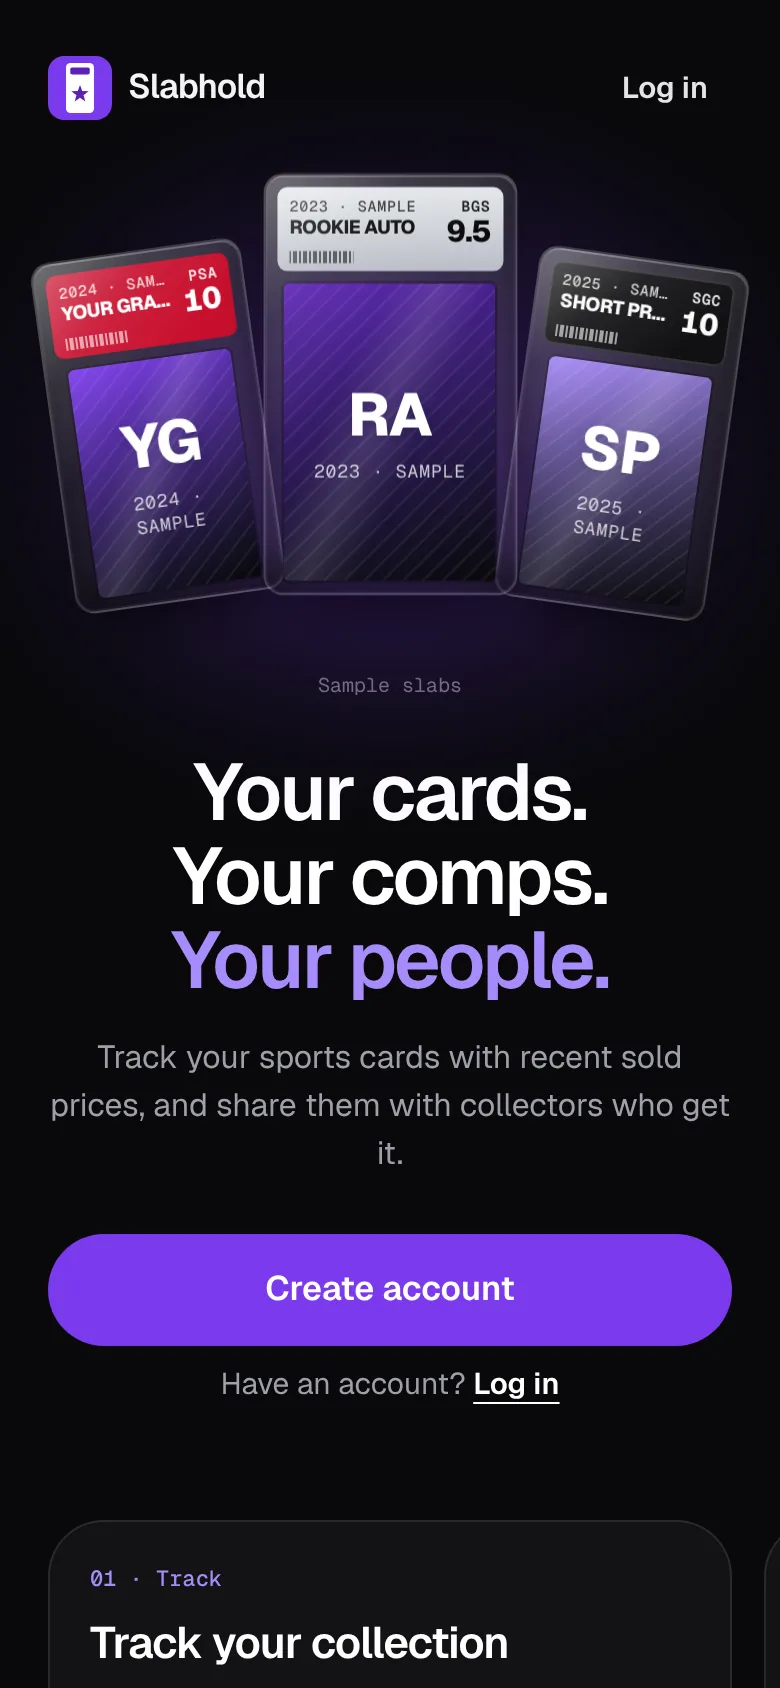
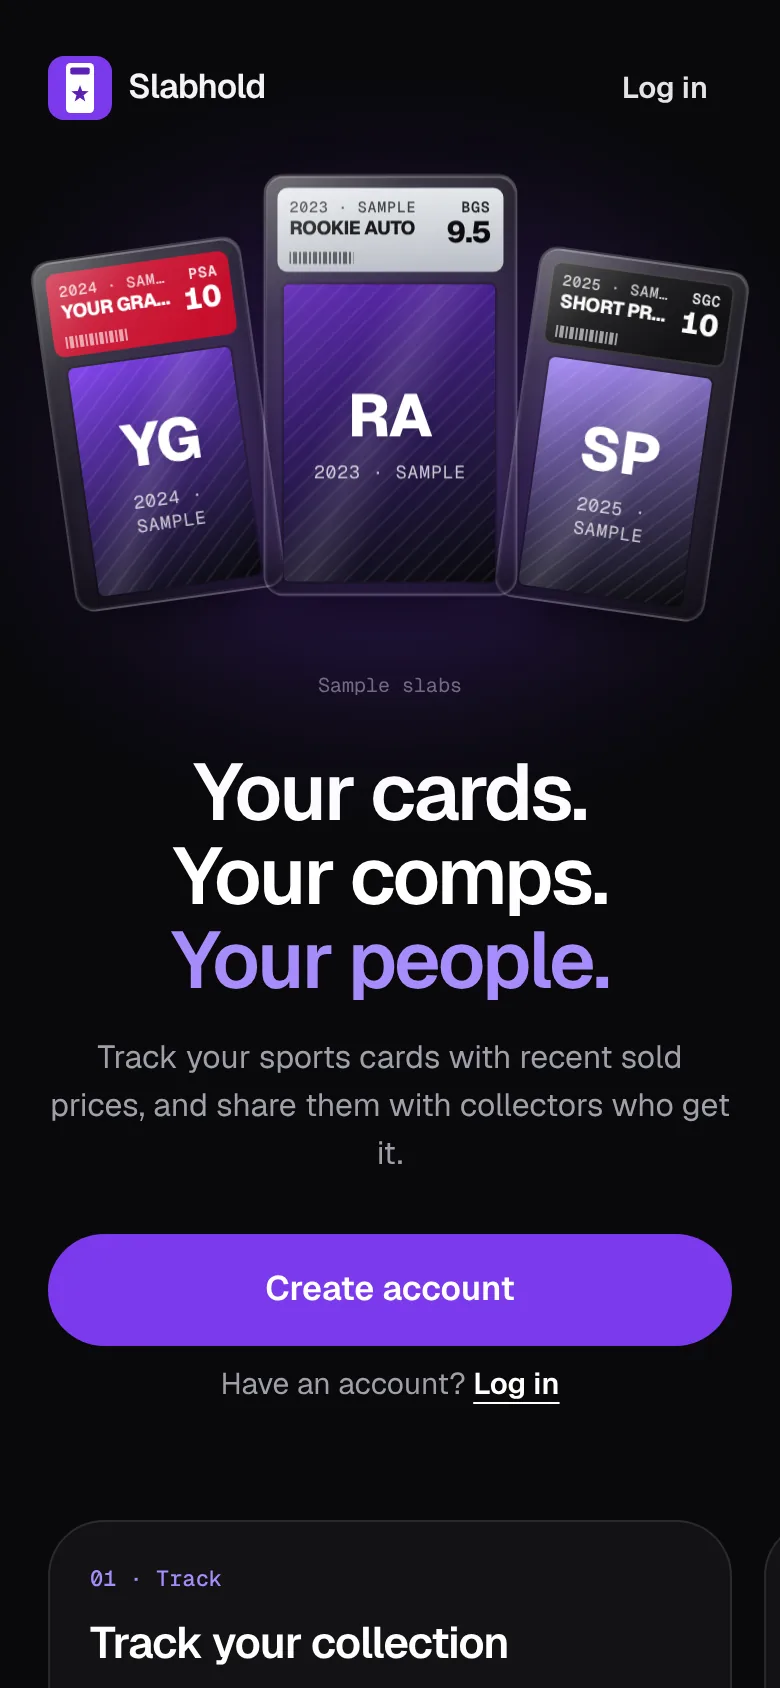
Solid DM bubble, solid tab indicator, static landing tilt
With Donnie's OK, three pins change: the sent DM bubble and its tail are
solid #7C3AED, the Home tab indicator is solid #7C3AED, and the landing
slabs keep their --tilt rotation without the infinite float loop.

Claude-Session: https://claude.ai/code/session_01EqJov4NkV3VZmzU9RYSXo1

diff --git a/components/message-thread.tsx b/components/message-thread.tsx
@@ -412,7 +412,7 @@ function MessageRow({
     ? `rounded-[20px] ${first ? "" : "rounded-tr-md"} ${last ? "rounded-br-[6px]" : "rounded-br-md"}`
     : `rounded-[20px] ${first ? "" : "rounded-tl-md"} ${last ? "rounded-bl-[6px]" : "rounded-bl-md"}`;
   const tone = mine
-    ? "bg-gradient-to-br from-[#7C3AED] to-[#5B21B6] text-white"
+    ? "bg-[#7C3AED] text-white"
     : "bg-zinc-200 text-zinc-900 dark:bg-zinc-800 dark:text-zinc-100";
   return (
     <div
@@ -487,7 +487,7 @@ function BubbleTail({ mine }: { mine: boolean }) {
       aria-hidden="true"
       viewBox="0 0 10 14"
       className={`absolute bottom-0 h-3.5 w-2.5 ${
-        mine ? "-right-[5px] text-[#5B21B6]" : "-left-[5px] -scale-x-100 text-zinc-200 dark:text-zinc-800"
+        mine ? "-right-[5px] text-[#7C3AED]" : "-left-[5px] -scale-x-100 text-zinc-200 dark:text-zinc-800"
       }`}
     >
       <path d="M0 0c0 7 3.5 11.5 10 14H0z" fill="currentColor" />

diff --git a/components/messages-polish.test.tsx b/components/messages-polish.test.tsx
@@ -295,12 +295,12 @@ describe("inbox", () => {
 });
 
 describe("conversation", () => {
-  it("draws my bubbles in the purple gradient and theirs on a neutral surface", () => {
+  it("draws my bubbles in solid purple and theirs on a neutral surface", () => {
     thread([dm("1", "ada", "me", 0), dm("2", "me", "ada", 1)]);
     const mine = document.querySelector("[data-bubble='mine']");
     const theirs = document.querySelector("[data-bubble='theirs']");
-    assert.match(mine?.className ?? "", /from-\[#7C3AED\]/);
-    assert.match(mine?.className ?? "", /to-\[#5B21B6\]/);
+    assert.match(mine?.className ?? "", /bg-\[#7C3AED\]/);
+    assert.doesNotMatch(mine?.className ?? "", /gradient/);
     assert.doesNotMatch(theirs?.className ?? "", /7C3AED/);
     assert.match(theirs?.className ?? "", /bg-zinc-200/);
   });

diff --git a/components/landing-page.test.tsx b/components/landing-page.test.tsx
@@ -135,10 +135,10 @@ describe("landing page", () => {
     assert.match(auth, /text-\[#7C3AED\] dark:text-\[#A78BFA\]">\s*@\{check\.value\} is available/);
   });
 
-  it("floats the hero slabs in CSS and stops them for reduced motion", () => {
+  it("tilts the hero slabs with a static transform and no float loop", () => {
     const css = read("app/globals.css");
-    assert.match(css, /@keyframes landing-float/);
-    assert.match(css, /@media \(prefers-reduced-motion: reduce\) \{\s*\.landing-float \{\s*animation: none;/);
+    assert.doesNotMatch(css, /@keyframes landing-float/);
+    assert.match(css, /\.landing-float \{\s*transform: rotate\(var\(--tilt, 0deg\)\);\s*\}/);
   });
 });
 

diff --git a/app/globals.css b/app/globals.css
@@ -537,28 +537,9 @@ textarea {
   }
 }
 
-/* Landing hero: the sample slabs drift slowly. Still for reduced motion. */
-@keyframes landing-float {
-  0%,
-  100% {
-    transform: translate3d(0, 0, 0) rotate(var(--tilt, 0deg));
-  }
-  50% {
-    transform: translate3d(0, -10px, 0) rotate(var(--tilt, 0deg));
-  }
-}
-
+/* Landing hero: each sample slab sits at its own static tilt (--tilt). */
 .landing-float {
   transform: rotate(var(--tilt, 0deg));
-  animation: landing-float 7s ease-in-out infinite;
-  will-change: transform;
-}
-
-@media (prefers-reduced-motion: reduce) {
-  .landing-float {
-    animation: none;
-    will-change: auto;
-  }
 }
 
 /*

diff --git a/components/timeline-ui.tsx b/components/timeline-ui.tsx
@@ -118,7 +118,7 @@ export function LaneTabs({ lane, onChange }: { lane: HomeLane; onChange: (lane: 
           className="pointer-events-none absolute bottom-0 left-0 flex h-[2px] w-1/2 justify-center transition-transform duration-300 ease-[cubic-bezier(0.2,0.7,0.2,1)] motion-reduce:transition-none"
           style={{ transform: `translateX(${index * 100}%)` }}
         >
-          <span className="block h-full w-14 rounded-full bg-gradient-to-r from-[#7C3AED] to-[#A78BFA]" />
+          <span className="block h-full w-14 rounded-full bg-[#7C3AED]" />
         </span>
       </div>
     </div>

diff --git a/lib/moving-today/module.test.ts b/lib/moving-today/module.test.ts
@@ -947,7 +947,7 @@ describe("For You placement", () => {
     assert.match(ui, /For You/);
     assert.match(ui, /New posts/);
     assert.match(ui, /h-\[2px\]/);
-    assert.match(ui, /rounded-full bg-gradient-to-r from-\[#7C3AED\] to-\[#A78BFA\]/);
+    assert.match(ui, /rounded-full bg-\[#7C3AED\]" \/>/);
   });
 
   it("keeps lib/collection/today.ts and the Collection value history", () => {
